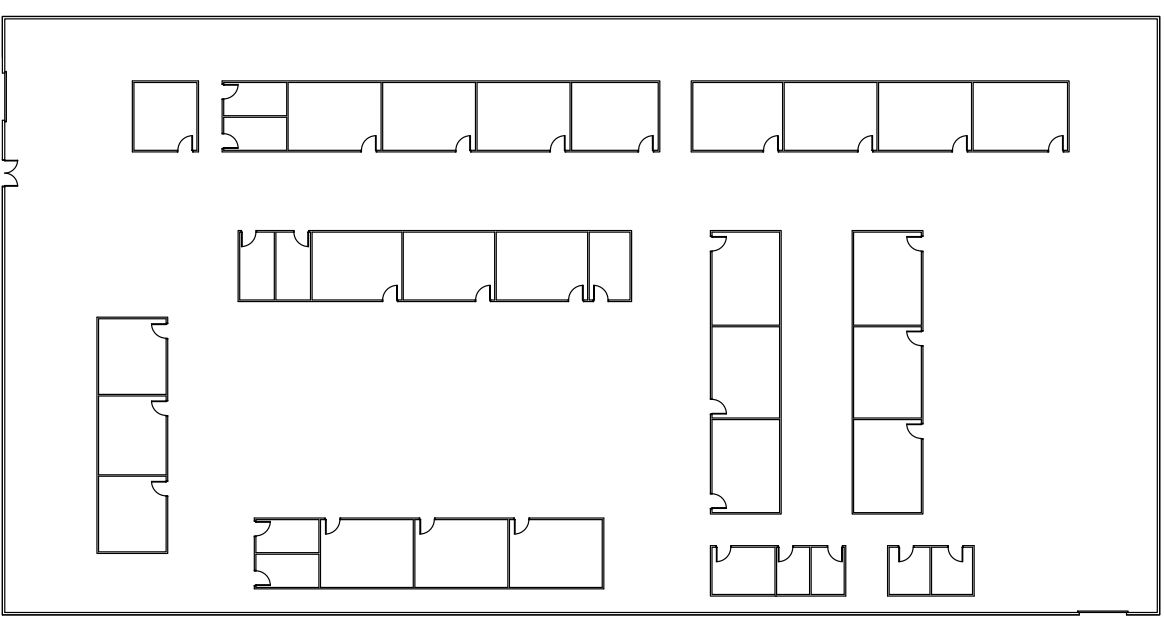
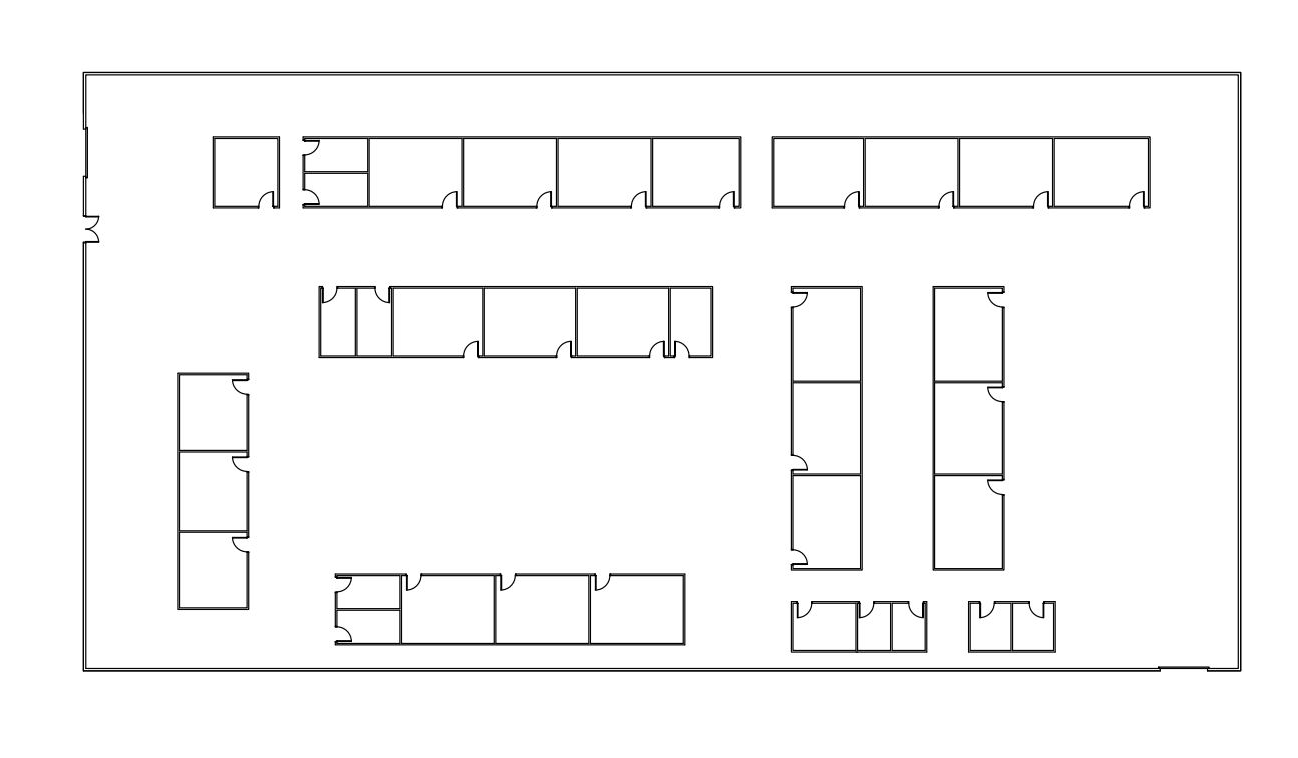
plano

Changed region(s): [[0.0, 0.0, 1.0, 1.0], [0.1856, 0.3642, 0.5567, 0.4856]]

diff --git a/miniaula2.5/scriptsActividades/ActMapas/index.html b/miniaula2.5/scriptsActividades/ActMapas/index.html
@@ -32,8 +32,8 @@
 	<br/><br/>
 	<script type="text/javascript">
 		if(tipo == "1"){
-			$("#wPaint2").css("width","460px");
-			$("#wPaint2").css("height","310px");
+			$("#wPaint2").css("width","800px");
+			$("#wPaint2").css("height","600px");
 			$("#wPaint2").css("background","transparent");
 			var images = new Array("mapas/plano_escuela_peque.jpg", "mapas/Mapa-escuela-02.jpg");
 			var image = images[Math.floor(Math.random() * (images.length))]
